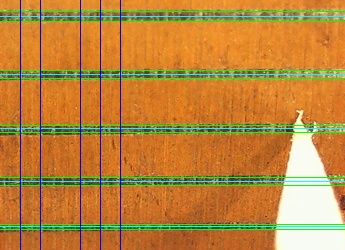
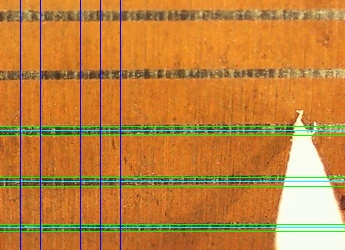
前后线优化

diff --git a/code/algorithm.py b/code/algorithm.py
@@ -2,10 +2,8 @@ import cv2
 import numpy as np
 import matplotlib.pyplot as plt
 
-# 上一版本成功验证正常图片情况
-# 开始测试实际情况，使用5条线进行取样平均，获得新的线
-# 测试通过，下一步将增加缺线即剔除，将缺少上边缘或者下边缘的线剔除掉
-
+# 将缺少上边缘或者下边缘的线剔除掉，
+# 选择上下线策略优化，判断前后线有无
 
 src = cv2.imread("test2.jpg")
 cv2.imshow("src1", src)
@@ -63,7 +61,7 @@ for i in range(0, len(listPixavr) - 1):
         print(i)
         lastPix.append(i)
         lastPixT.append(i)
-    if subPix < -20:
+    if subPix < -40:
         print(i)
         lastPix.append(i)
         lastPixD.append(i)
@@ -72,8 +70,18 @@ print(lastPix, lastPixT, lastPixD)
 for j in range(4):
     for i in range(len(lastPix)):
         try:
-            if lastPix[i + 1] - lastPix[i] < 5:
-                lastPix.remove(lastPix[i + 1])
+            localPix = lastPix[i]
+            print(localPix)
+            if i % 2 == 0:
+                if lastPix[i + 1] - lastPix[i] > 20:
+                    lastPix.remove(lastPix[i])
+            if lastPix[i] - lastPix[i-1] >20 :  # 前面无线
+                if lastPix[i + 1] - lastPix[i] < 5:
+                    lastPix.remove(lastPix[i + 1]) # 减去i+1 这条线
+            if lastPix[i] - lastPix[i-1] <20 :
+                if lastPix[i + 1] - lastPix[i] < 5:
+                    lastPix.remove(lastPix[i]) # 减去i 这条线
+
         except IndexError:
             pass
 
